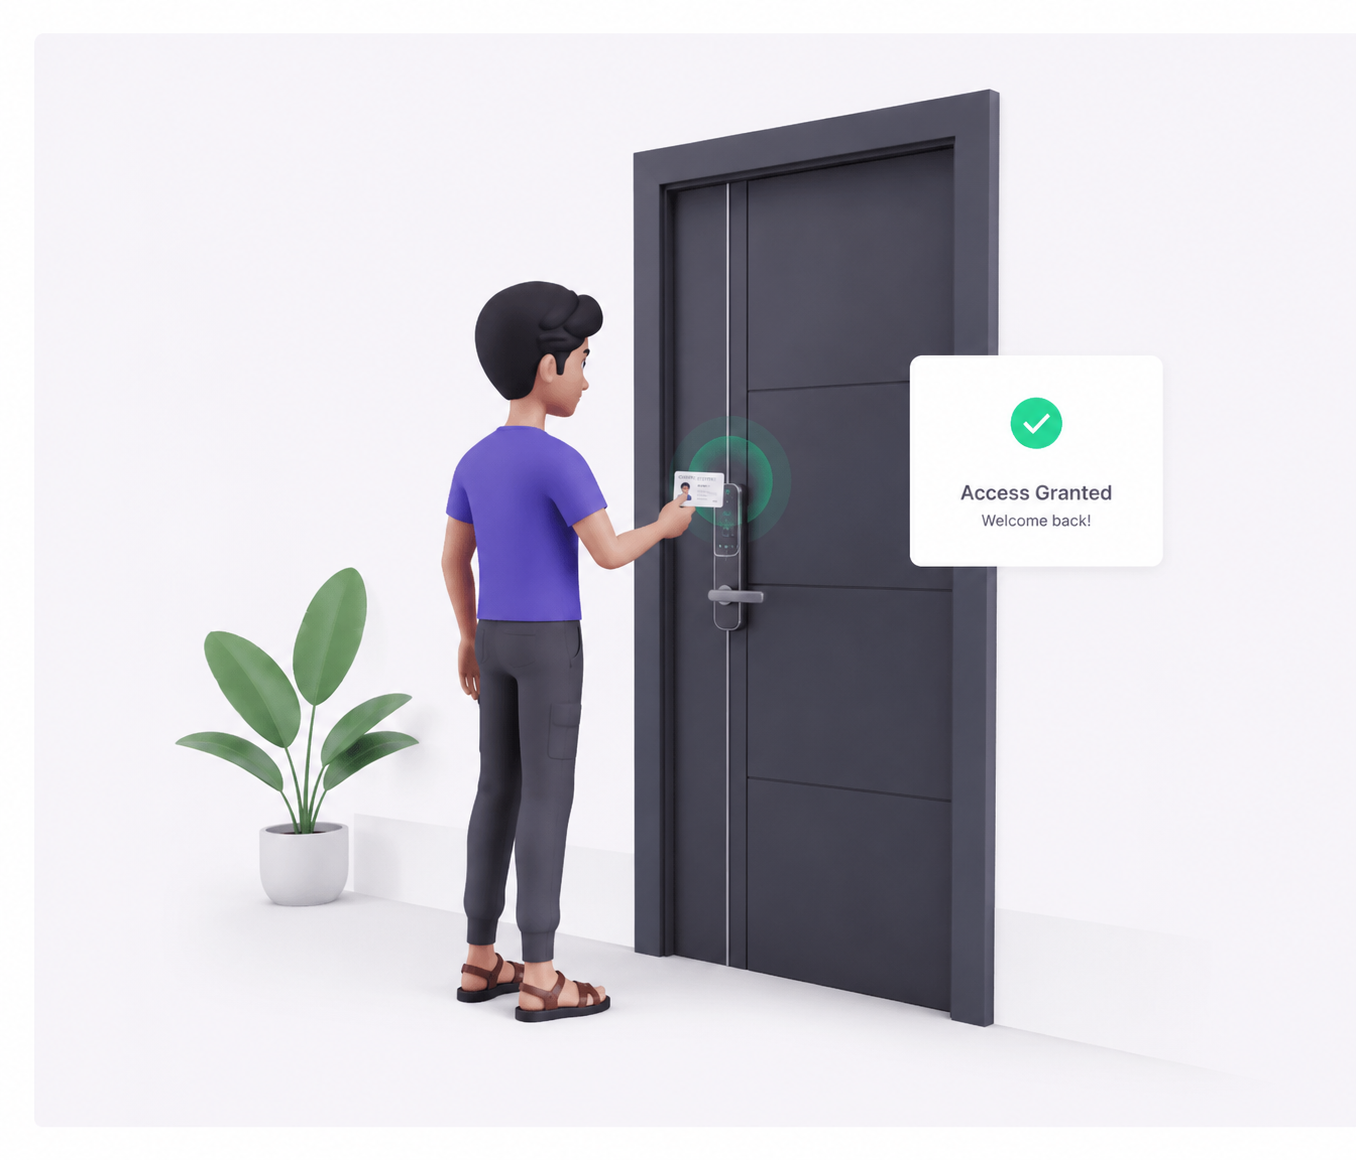
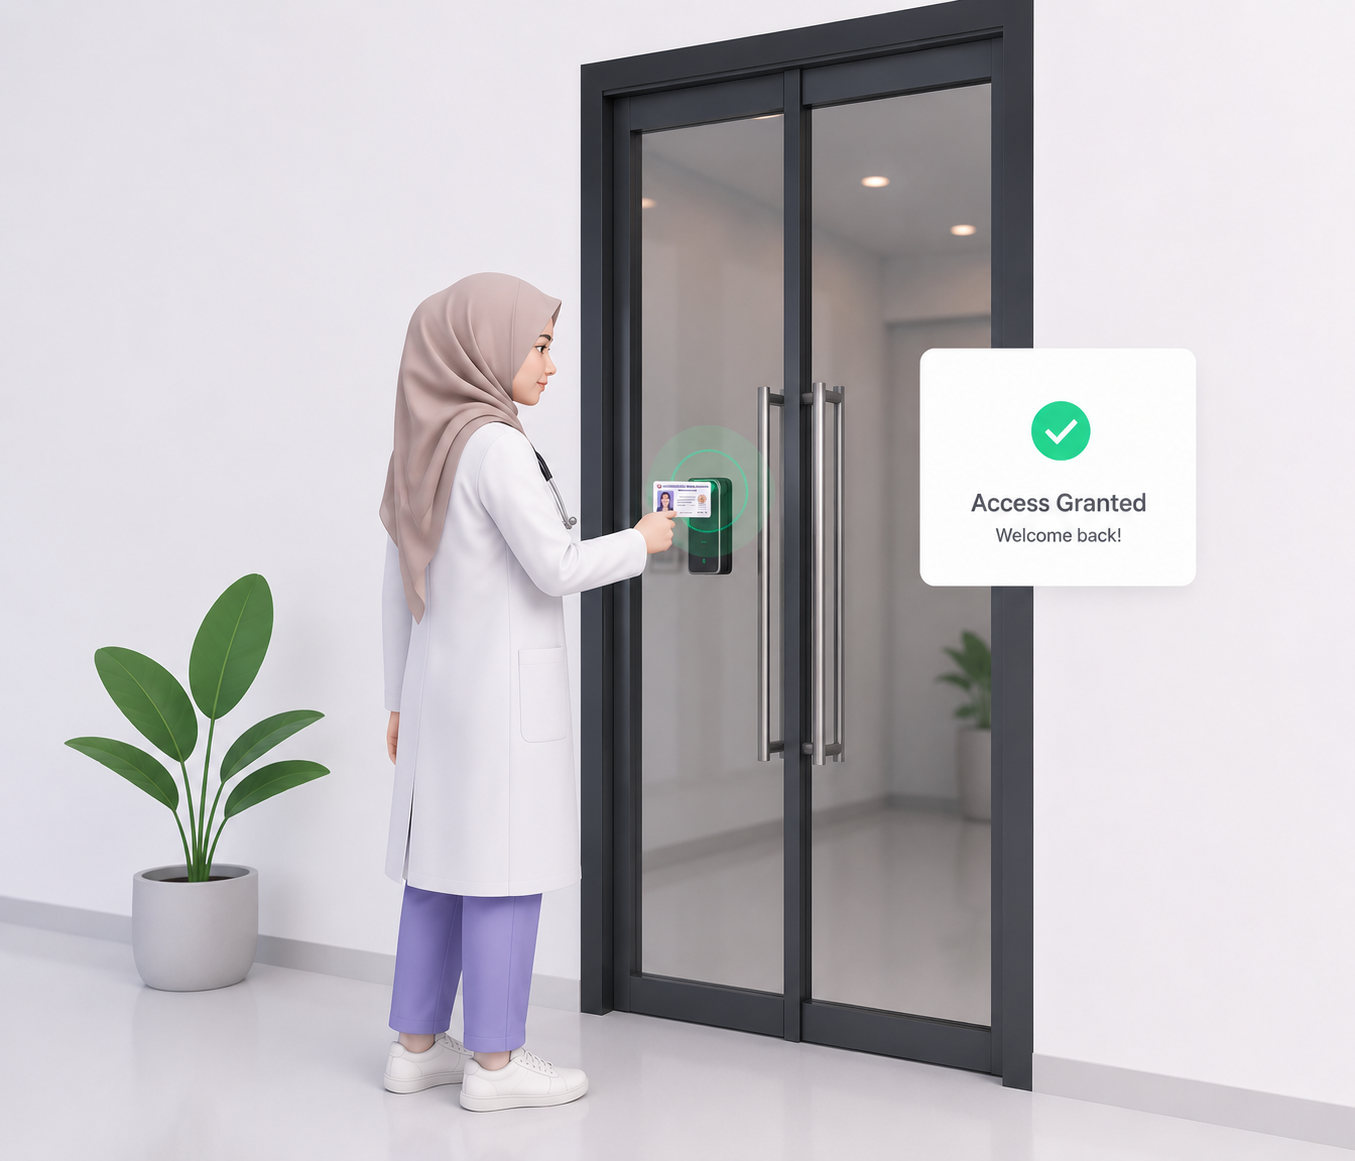
herologin

diff --git a/resources/js/layouts/auth/auth-split-layout.tsx b/resources/js/layouts/auth/auth-split-layout.tsx
@@ -18,7 +18,7 @@ export default function AuthSplitLayout({
 
     return (
         <div className="relative grid min-h-dvh lg:grid-cols-2">
-            <div className="relative hidden lg:block lg:col-span-1">
+            <div className="relative hidden lg:col-span-1 lg:block">
                 <img
                     src="/herologin.png"
                     alt="Smart Door Lock"
@@ -29,13 +29,13 @@ export default function AuthSplitLayout({
                 <div className="absolute inset-0 bg-gradient-to-t from-black/50 to-transparent" />
 
                 {/* Text overlay */}
-                <div className="absolute bottom-12 left-0 right-0 z-10 text-center text-white">
+                <div className="absolute right-0 bottom-12 left-0 z-10 text-center text-white">
                     <h2 className="text-2xl font-bold">{name}</h2>
                     <p className="mt-2 text-sm">Fakultas Kedokteran</p>
                 </div>
             </div>
             {/* Right Side - Login Form */}
-            <div className="flex flex-col items-center justify-center bg-white px-6 py-12 dark:bg-zinc-950 sm:px-12 lg:px-16">
+            <div className="flex flex-col items-center justify-center bg-white px-6 py-12 sm:px-12 lg:px-16 dark:bg-zinc-950">
                 <div className="w-full max-w-md">
                     {/* Logo */}
                     <Link
@@ -45,7 +45,9 @@ export default function AuthSplitLayout({
                         <div className="flex h-12 w-12 items-center justify-center">
                             <AppLogoIcon className="size-12 fill-current text-black dark:text-white" />
                         </div>
-                        <span className="text-xl font-bold text-gray-900 dark:text-white">{name}</span>
+                        <span className="text-xl font-bold text-gray-900 dark:text-white">
+                            {name}
+                        </span>
                     </Link>
 
                     {/* Title Section */}
@@ -64,8 +66,12 @@ export default function AuthSplitLayout({
             </div>
 
             {/* Mobile Hero - shown on small screens */}
-            <div className="fixed inset-x-0 top-0 -z-10 h-48 lg:hidden"
-                style={{ background: 'linear-gradient(135deg, #f0f2f5 0%, #e8edf2 100%)' }}
+            <div
+                className="fixed inset-x-0 top-0 -z-10 h-48 lg:hidden"
+                style={{
+                    background:
+                        'linear-gradient(135deg, #f0f2f5 0%, #e8edf2 100%)',
+                }}
             />
         </div>
     );
